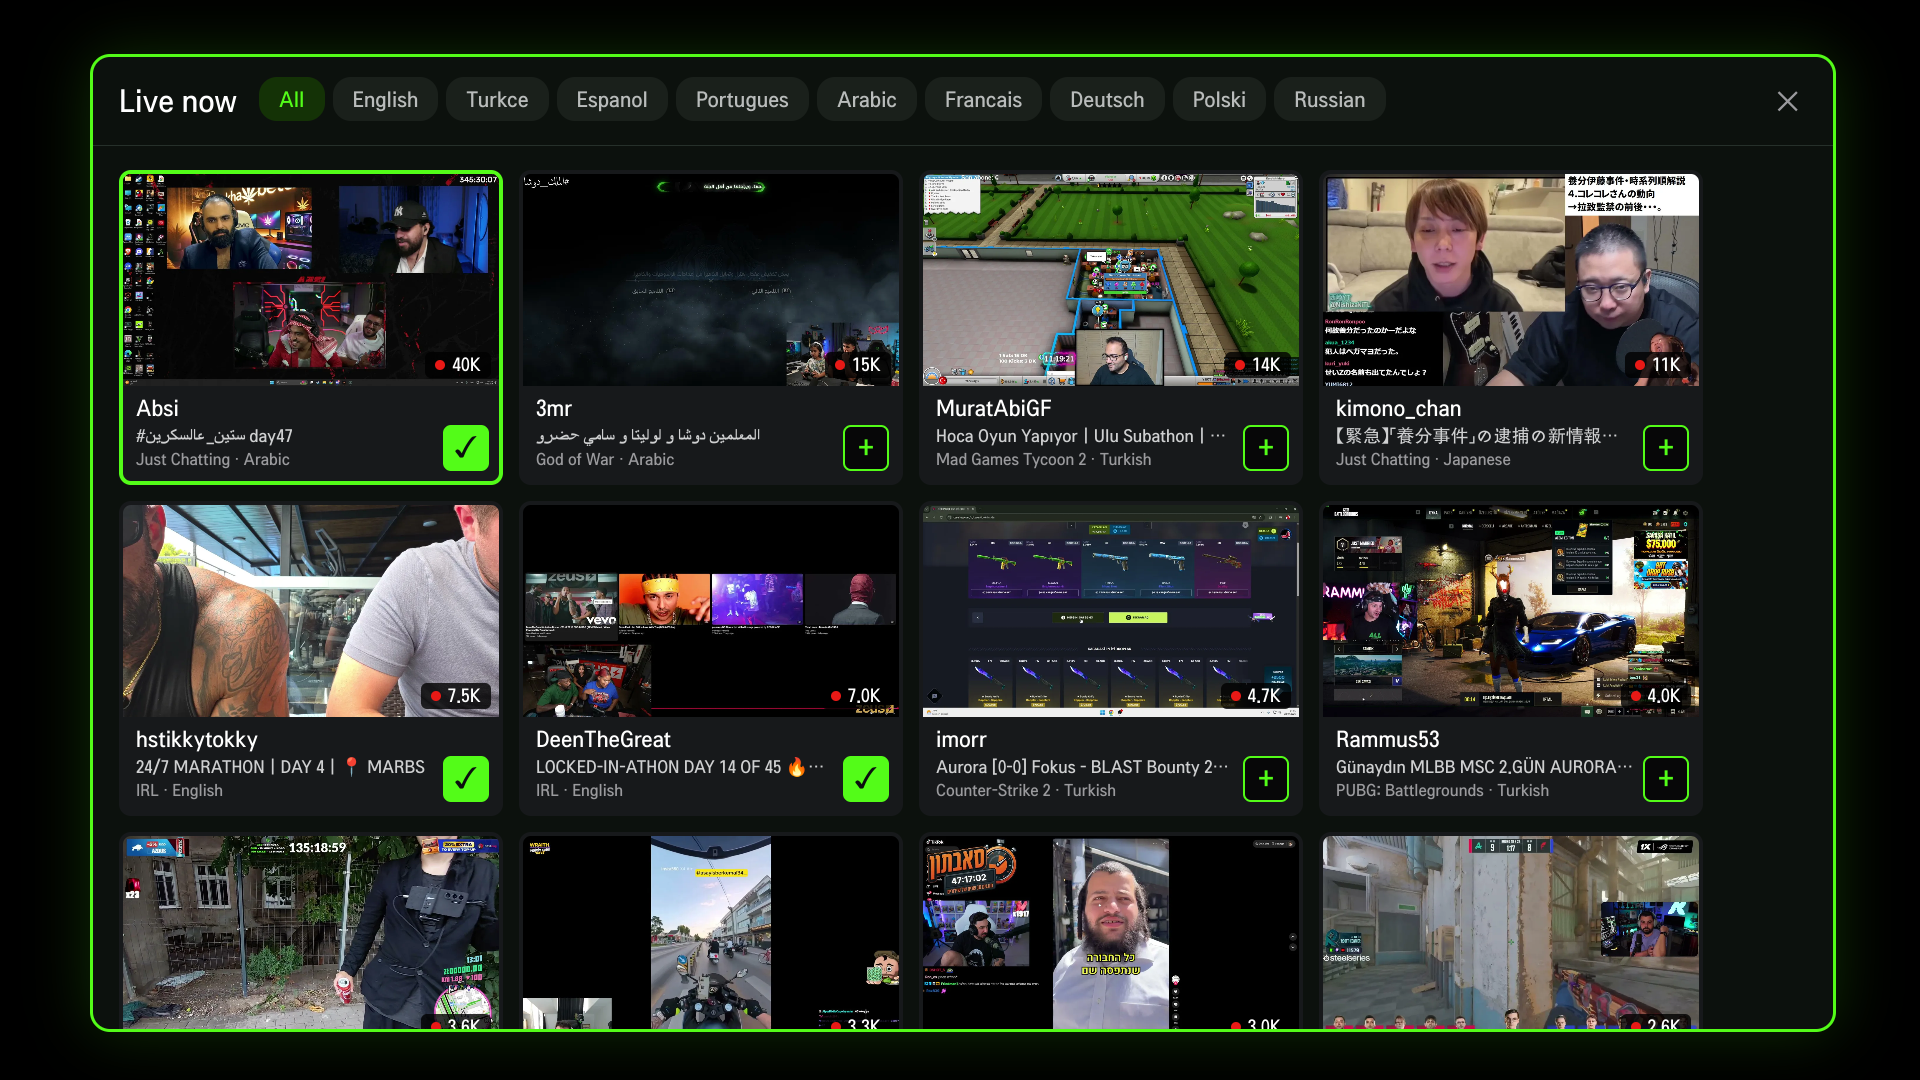
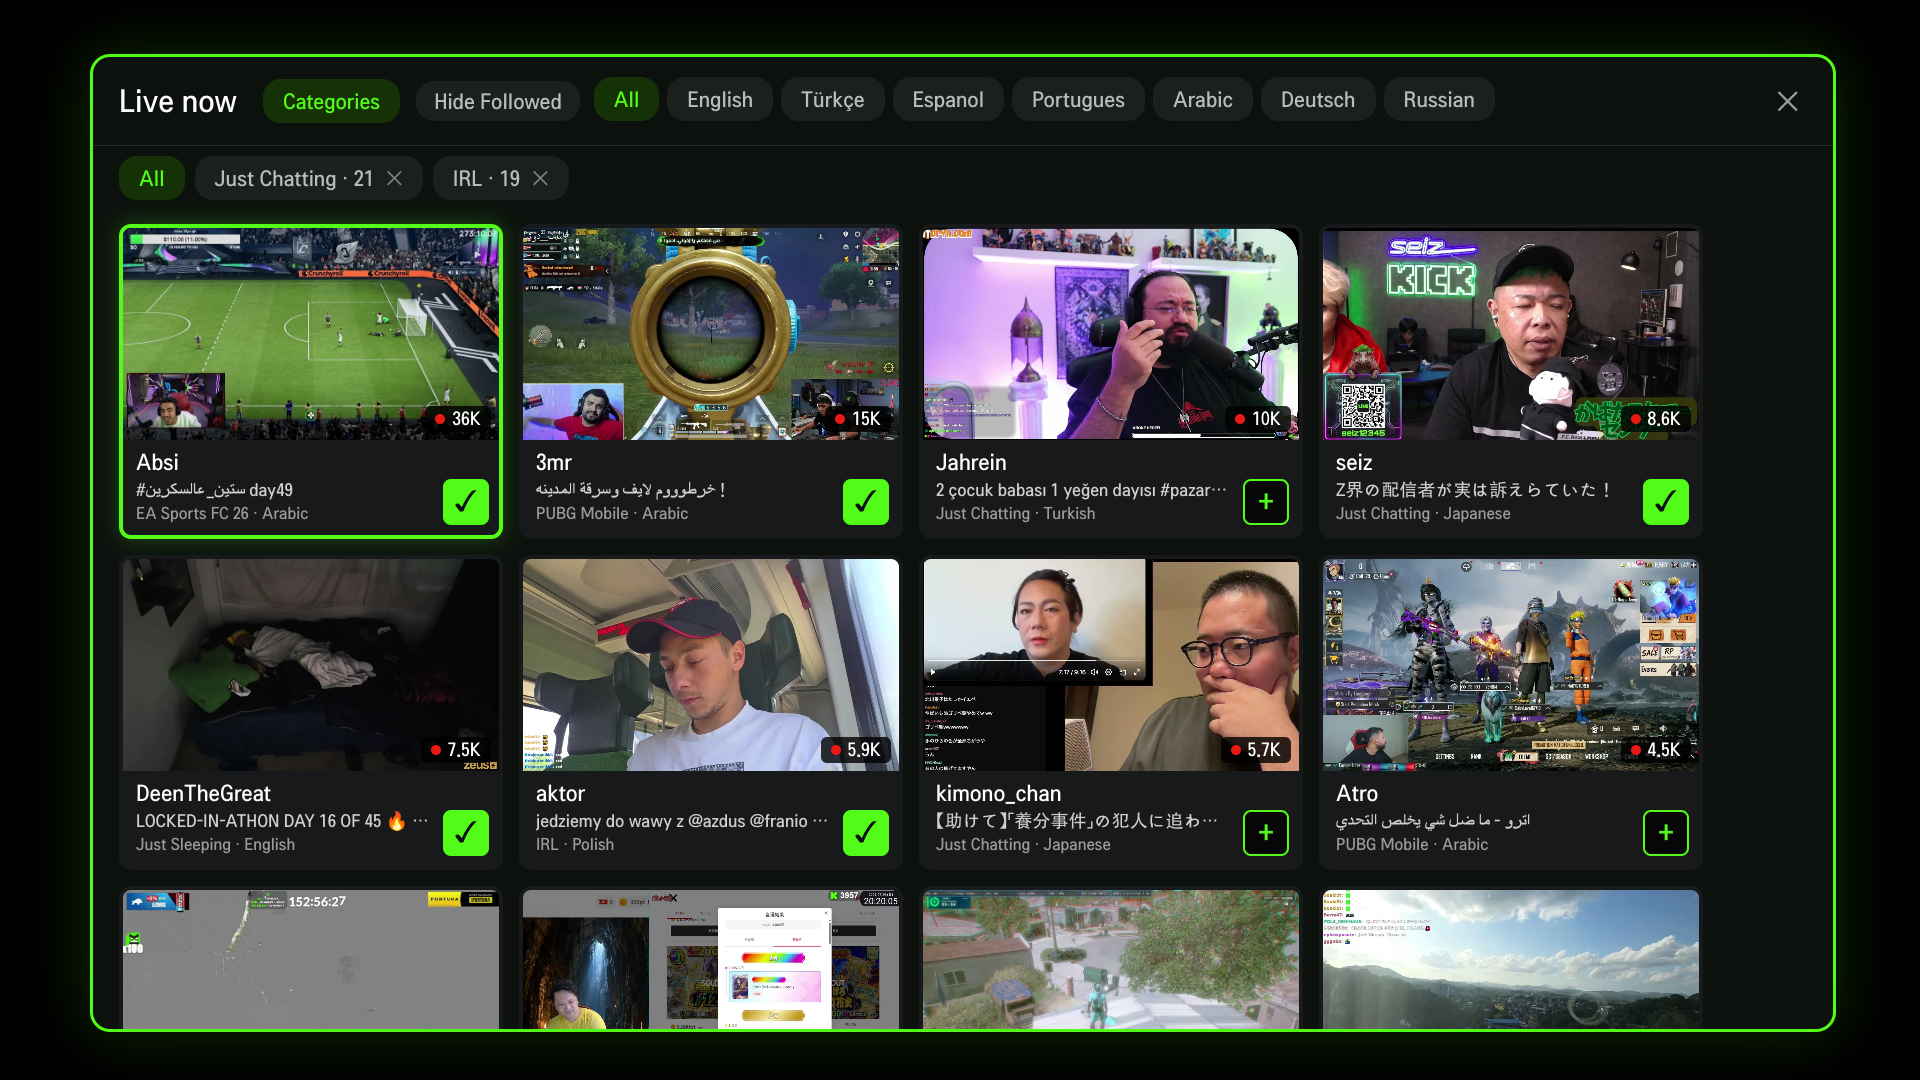
Refresh the README screenshots
The old set predates the sidebar uptime, the colour-button legend, the quality
button, the Categories and Hide Followed controls, pinned category chips, and
most of the current Settings list — none of which appeared anywhere in the README.

Shot on the TV against a generic follow list built from Kick's public top-live
directory plus a few well-known offline channels, ten in total so the sidebar
fits without scrolling. The Settings shot hides the version badge and the cog's
update dot: the local build stays pinned to 1.0.0 on purpose, so those markers
always claim an update is available and would be wrong in a screenshot.

Two captions had drifted from what the images show. Quality is its own button
now rather than a row in Settings, and Browse filters by category as well as
by language.

diff --git a/README.md b/README.md
@@ -19,7 +19,7 @@ something. Use it at your own risk.
 </tr>
 <tr>
 <td align="center">Player with the read-only live chat overlay</td>
-<td align="center">Browse everything live, filter by language</td>
+<td align="center">Browse everything live, by language or category</td>
 </tr>
 <tr>
 <td width="50%"><img src="screenshots/sidebar.png" alt="Followed channels sidebar"></td>
@@ -27,7 +27,7 @@ something. Use it at your own risk.
 </tr>
 <tr>
 <td align="center">Your channels, live ones first, with pins</td>
-<td align="center">Settings: chat, low latency, auto-advance, quality</td>
+<td align="center">Settings: chat, low latency, auto-advance, dim and more</td>
 </tr>
 </table>
 
